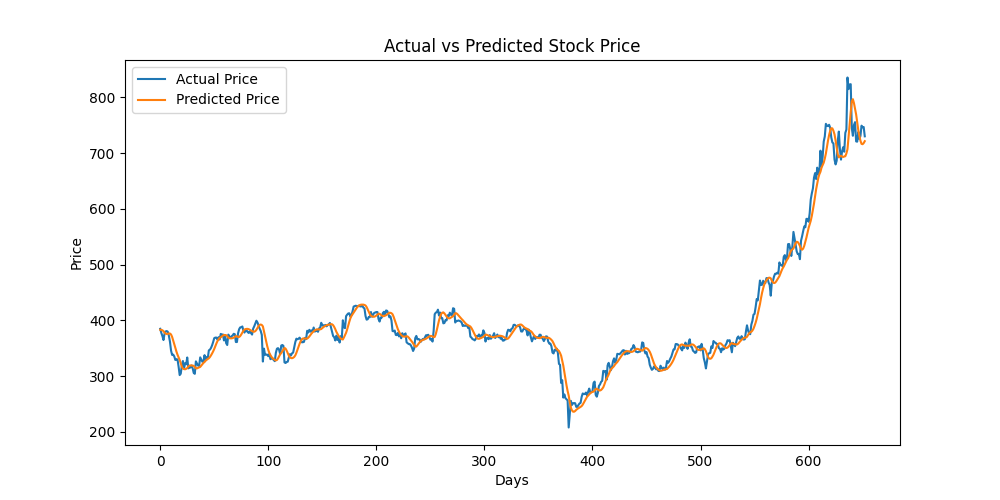
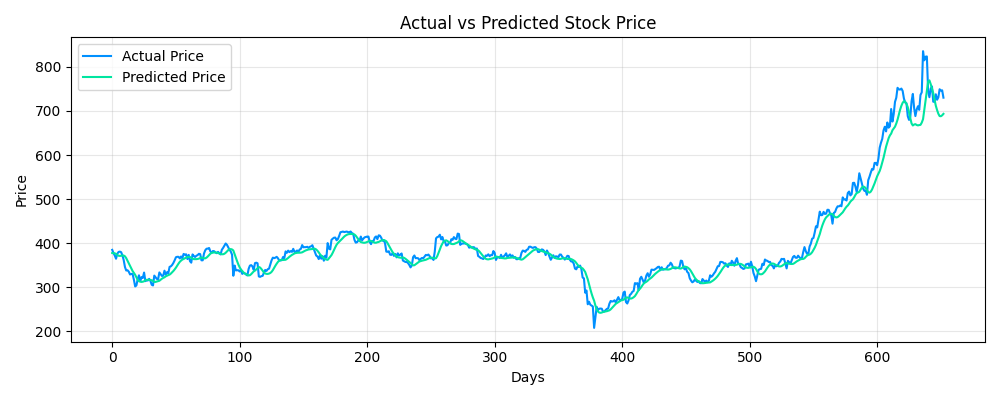
modified app.py

diff --git a/app.py b/app.py
@@ -84,14 +84,14 @@ plt.close()
 
 @app.route('/')
 def home():
-    # ← was 'welcome.html', now matches stock_prediction_home.html
-    return render_template('stock_prediction_home.html')
+    # 'welcome.html',
+    return render_template('welcome.html')
 
 
 @app.route('/input')
 def input_page():
-    # ← was 'input.html', now matches stock_prediction.html
-    return render_template('stock_prediction.html')
+    # ←  'input.html'
+    return render_template('input.html')
 
 
 @app.route('/predict', methods=['POST'])
@@ -141,8 +141,8 @@ def predict():
     ]
 
     return render_template(
-        # ← was 'output.html', now matches stock_prediction_result.html
-        'stock_prediction_result.html',
+        # ← 'output.html'
+        'output.html',
         stock_name=stock_name,
         days=days,
         rmse=round(rmse, 2),